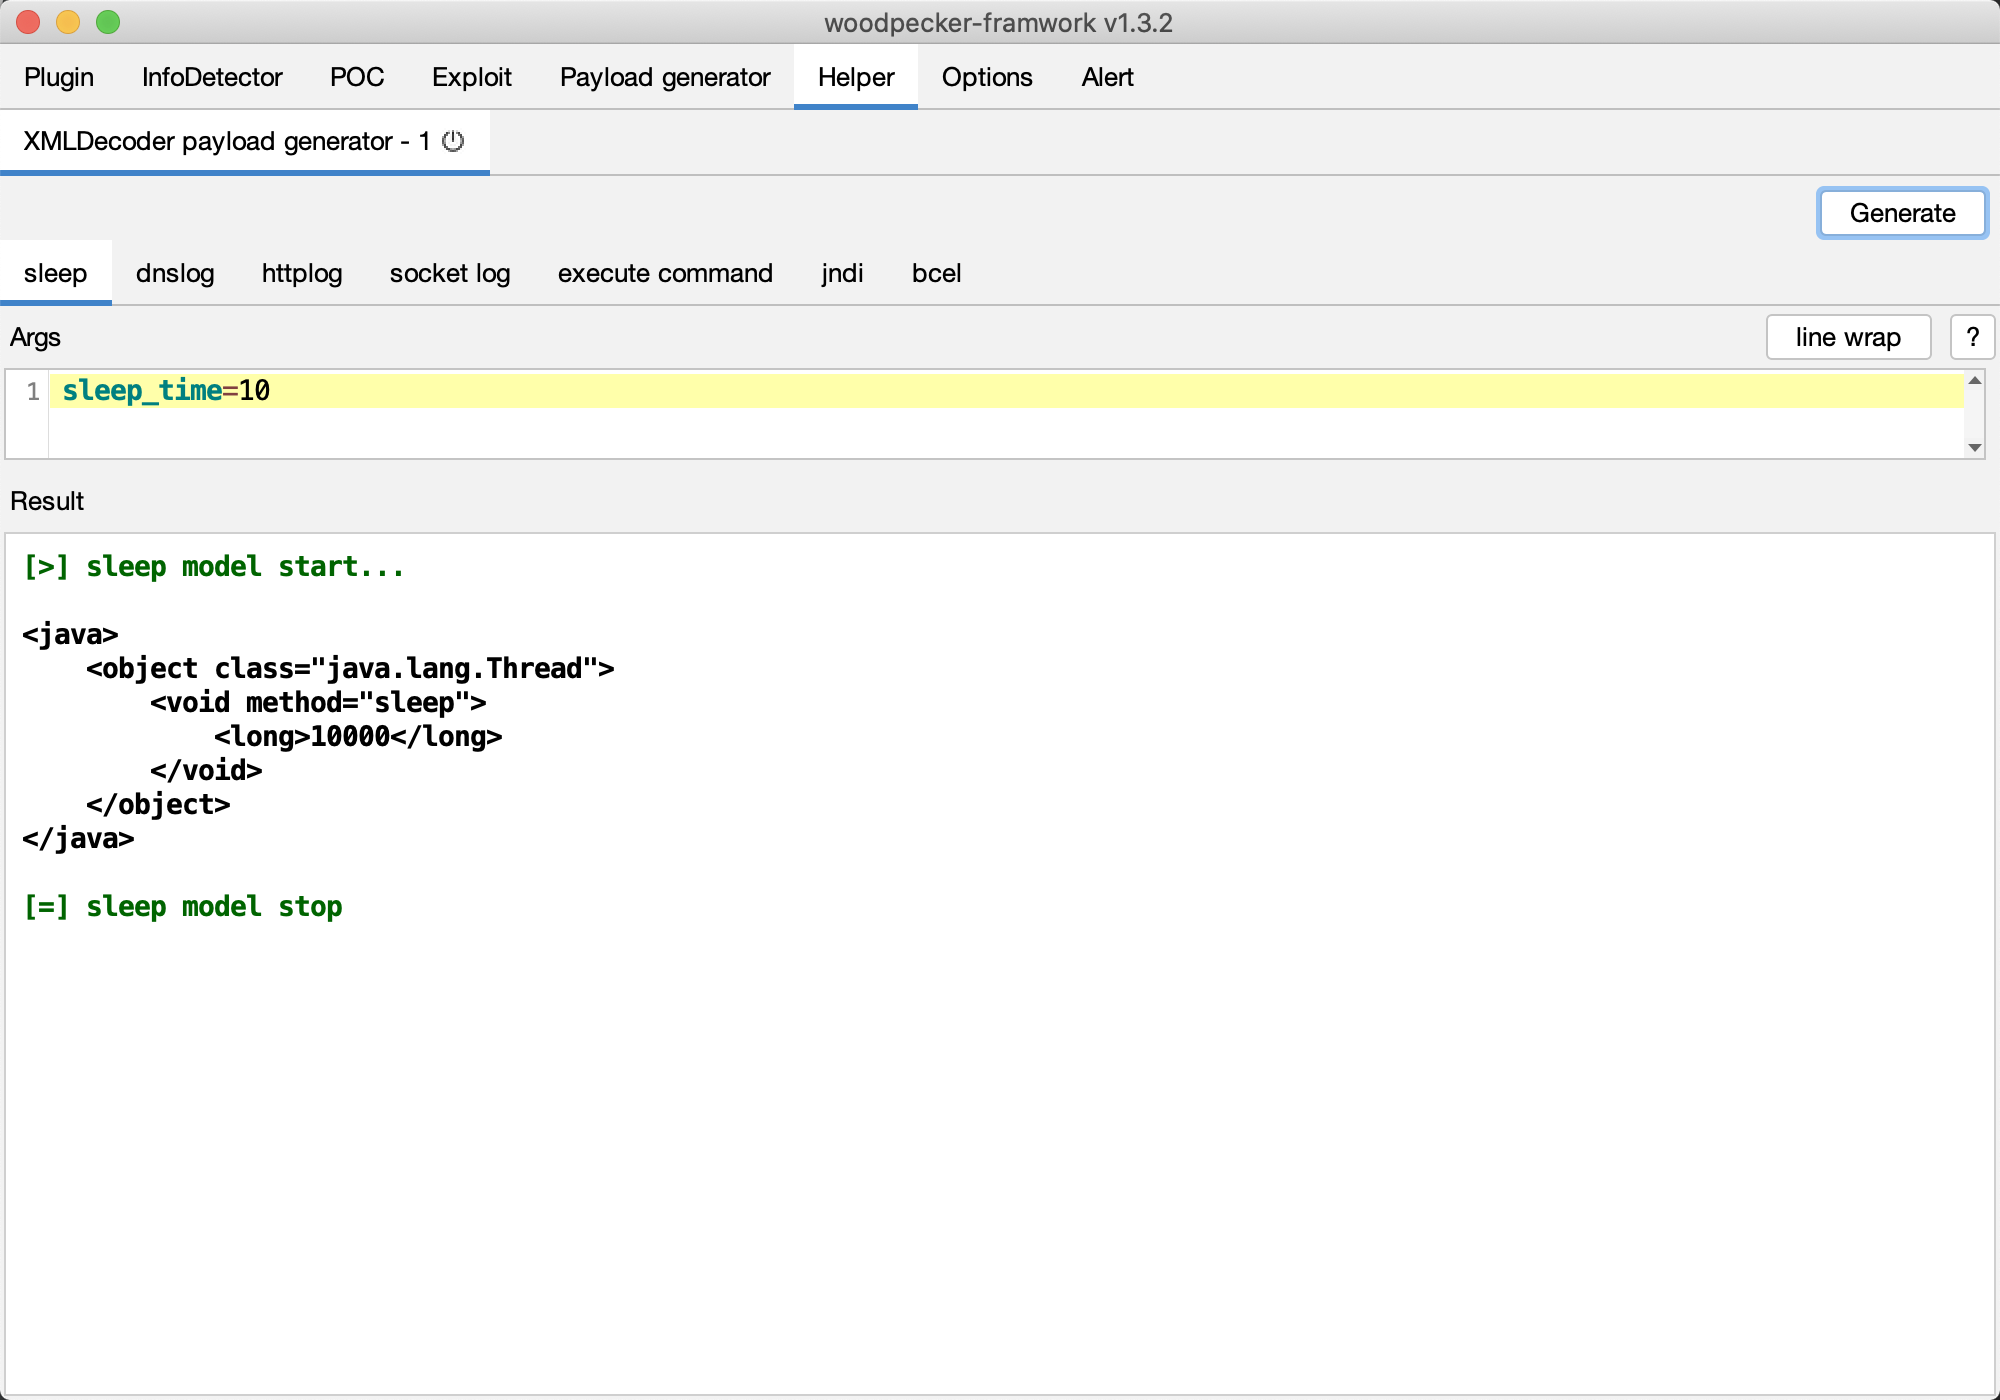
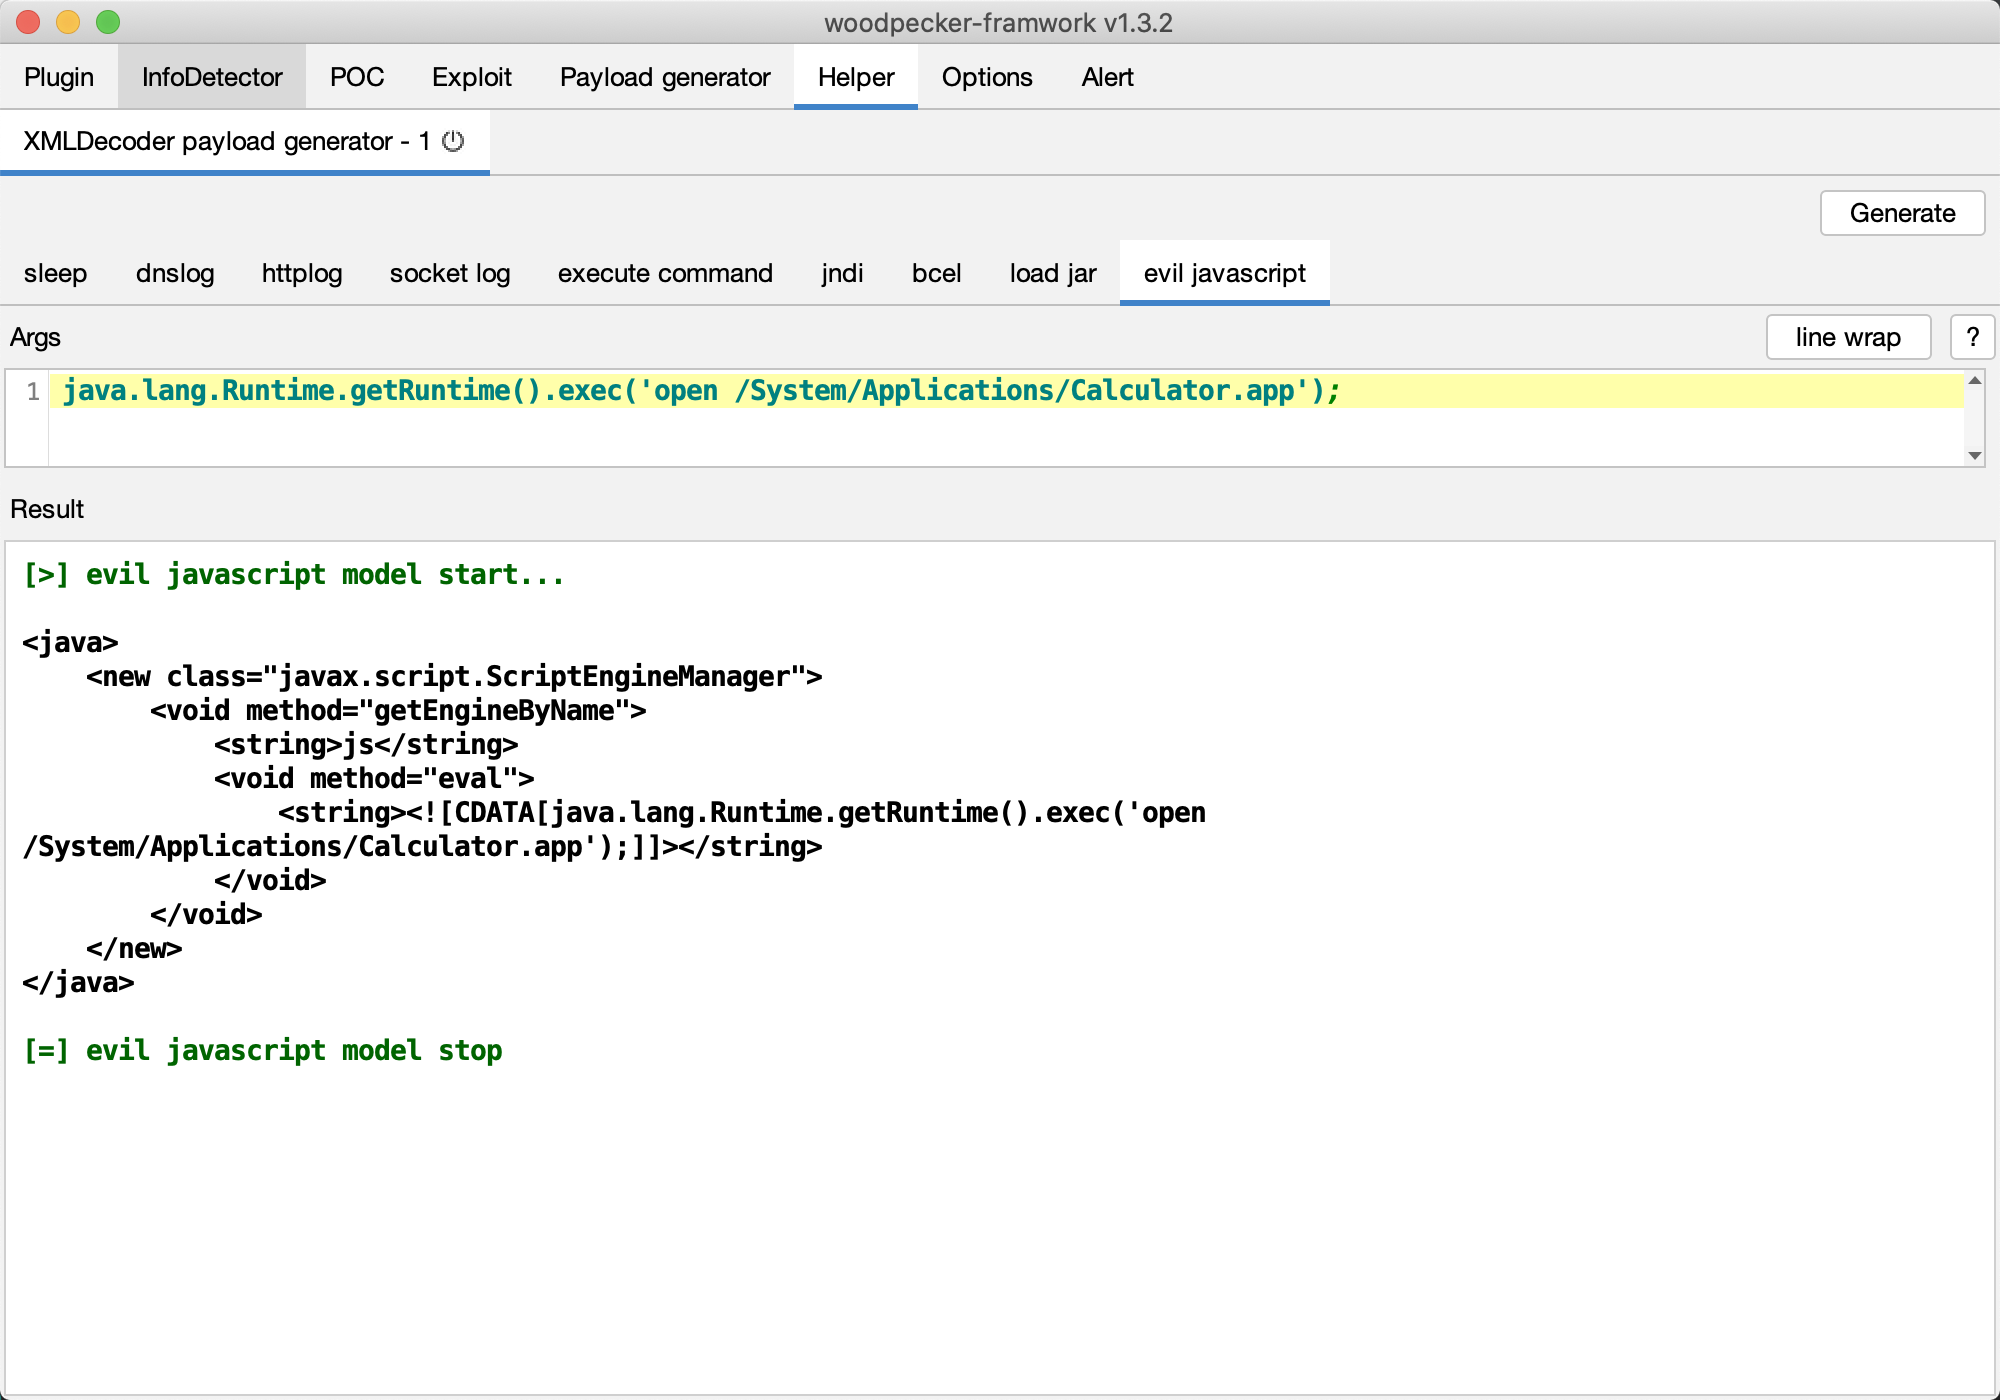
更新README中的payload列表和展示图

diff --git a/README.md b/README.md
@@ -9,6 +9,8 @@
 - [x] execute command
 - [x] jndi
 - [x] bcel
+- [x] load jar
+- [x] execute javascript
 
 ## 0x02 截图
 
